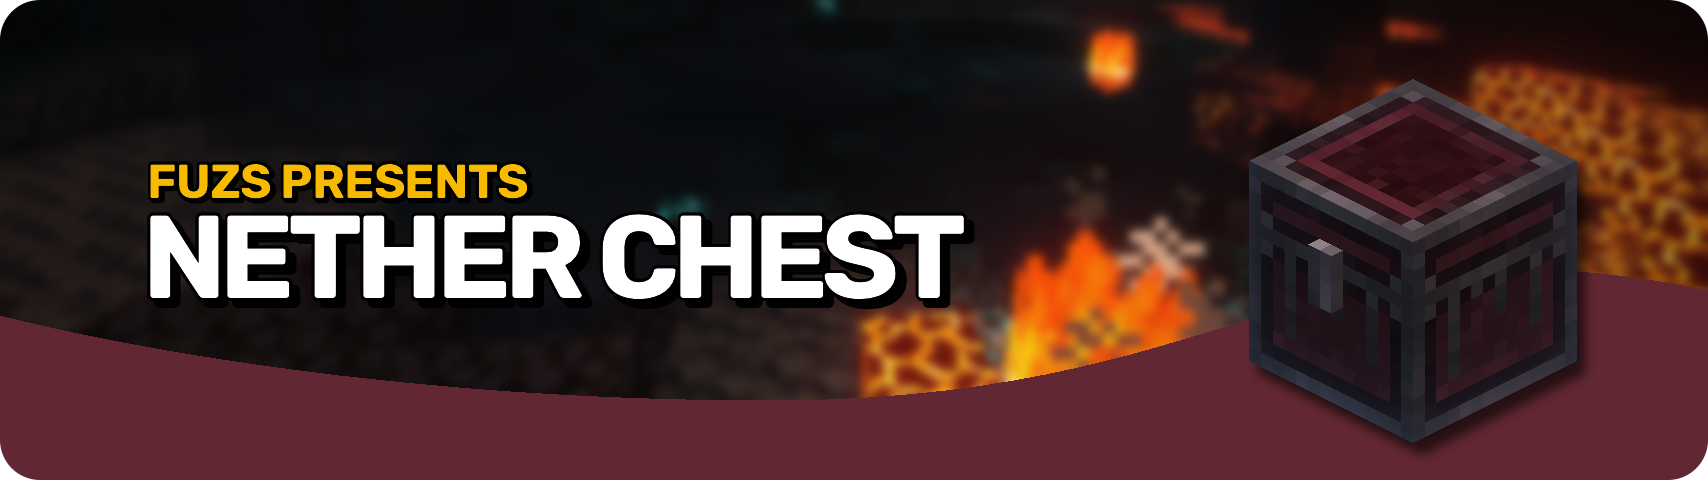
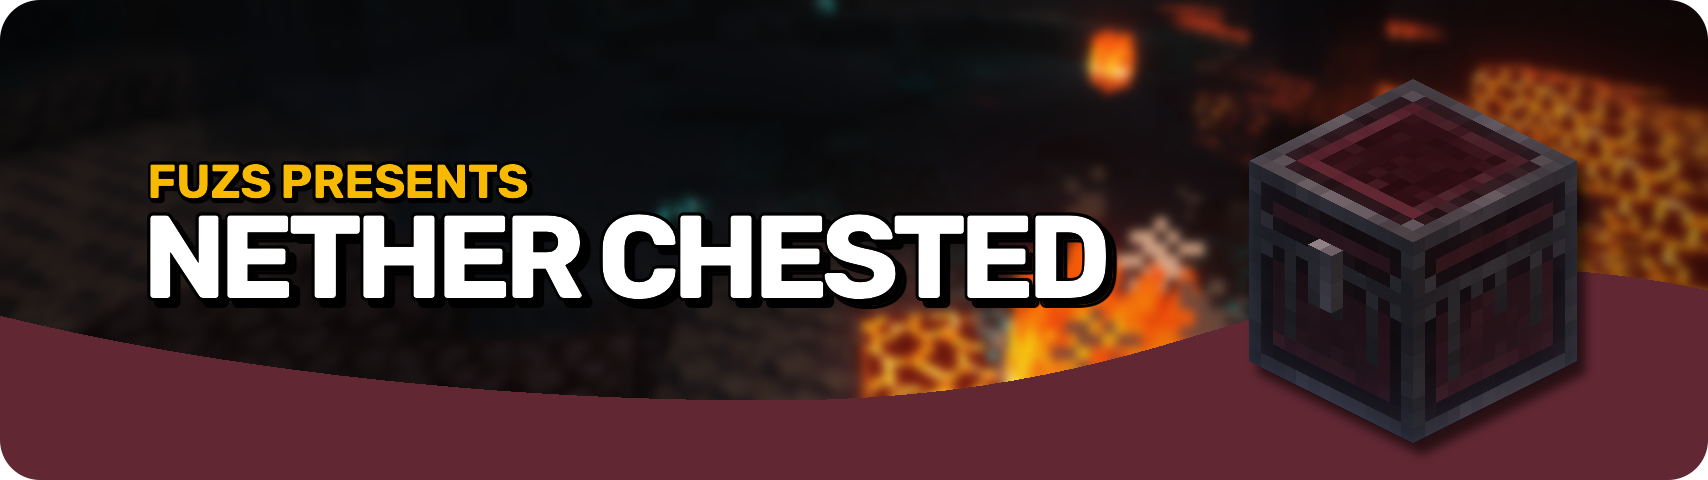
rename nether chest

Changed region(s): [[0.5585, 0.4375, 0.6516, 0.6562]]

diff --git a/pages/data/netherchest/about.md b/pages/data/netherchest/about.md
@@ -1,1 +1,1 @@
-Nether Chest adds a very unique new chest: Not only has this single chest as many slots as a full double chest, but it can also store way more items in each slot! Every slot can hold up to 8 times as many items as normal of every stackable item. So where any other inventory just stores 64 items in a slot, your new nether chest can store a total of 512.
+Nether Chested adds a very unique new chest: Not only has this single chest as many slots as a full double chest, but it can also store way more items in each slot! Every slot can hold up to 8 times as many items as normal of every stackable item. So where any other inventory just stores 64 items in a slot, your new nether chest can store a total of 512.

diff --git a/pages/data/netherchest/credits.md b/pages/data/netherchest/credits.md
@@ -1,2 +1,2 @@
-+ Thanks a lot to [cadaverous_queen](https://www.curseforge.com/members/cadaverous_queen) for the original idea for this mod with their own [Nether Chest](https://www.curseforge.com/minecraft/mc-mods/nether-chest) mod. The chest texture has been reused from the original mod.
++ Thanks a lot to [cadaverous_queen](https://www.curseforge.com/members/cadaverous_queen) for the original idea for this mod with their old [Nether Chest](https://www.curseforge.com/minecraft/mc-mods/nether-chest) mod. The chest texture has been reused from the original mod.
 + Thanks to TyIer#8369 for inspiring the chest interface.
